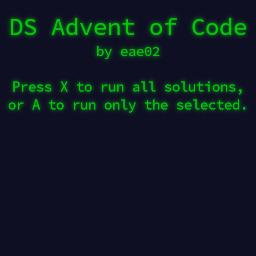
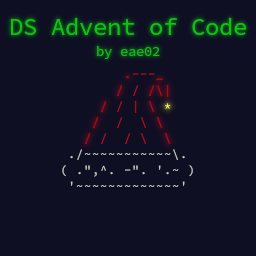
ui improvements

diff --git a/src/console.cpp b/src/console.cpp
@@ -1,0 +1,185 @@
+#include "console.hpp"
+#include "res/console.h"
+#include <nds.h>
+#include <stdio.h>
+
+console::SolutionState console::solStates[25];
+
+static int maxScroll;
+
+constexpr int PIXELS_Y_HEADER = 3 * 8;
+constexpr int PIXELS_Y_PER_DAY = 8 * 5;
+
+void console::init() {
+	videoSetMode(MODE_5_2D | DISPLAY_BG0_ACTIVE);
+	vramSetBankA(VRAM_A_MAIN_BG);
+	
+	BGCTRL[0] = BG_TILE_BASE(1) | BG_MAP_BASE(0) | BG_COLOR_256 | BG_32x32;
+	
+	dmaCopy(consoleTiles, (void*)CHAR_BASE_BLOCK(1), consoleTilesLen);
+	dmaFillHalfWords(0, (void*)SCREEN_BASE_BLOCK(0), consoleMapLen);
+	dmaCopy(consolePal,BG_PALETTE,sizeof(consolePal));
+	console::update();
+	
+	maxScroll = PIXELS_Y_HEADER;
+	for (int d = 0; d < 25; d++) {
+		if (solutions[d] != nullptr)
+			maxScroll += PIXELS_Y_PER_DAY;
+	}
+	maxScroll = std::max(maxScroll - SCREEN_HEIGHT, 0);
+}
+
+static u16 allLineData[32][32];
+
+void setLineData(int line, const char* data) {
+	bool bold = false;
+	for (int i = 0; i < 32; i++) {
+		if (*data == '\e') {
+			bold = !bold;
+			data++;
+		}
+		
+		int charIdx = 95;
+		if (*data >= '!' && *data <= '~')
+			charIdx = *data - '!';
+		
+		int charCol = charIdx % 32;
+		int charRow = charIdx / 32;
+		if (bold) charRow += 3;
+		
+		
+		if (line >= 0 && line < 32)
+			allLineData[line + 0][i] = consoleMap[(charRow * 64) + charCol];
+		if (line >= -1 && line < 31)
+			allLineData[line + 1][i] = consoleMap[(charRow * 64) + 32 + charCol];
+		
+		if (*data != '\0') {
+			data++;
+		}
+	}
+}
+
+static volatile int prevTouchY = 0;
+static volatile bool wasTouching = false;
+static volatile int scrollY = 0;
+
+void console::updateInput(int touchX, int touchY) {
+	int keys = keysHeld();
+	bool touching = (keys & KEY_TOUCH) != 0;
+	
+	if (touching && !wasTouching) {
+		for (int d = 0; d < 25; d++) {
+			if (solStates[d].state != RunState::NotRun)
+				continue;
+			int tapToRunLoX = ((d < 10) ? 8 : 9) * 8;
+			int tapToRunHiX = tapToRunLoX + 10 * 8;
+			int tapToRunLoY = PIXELS_Y_HEADER + d * PIXELS_Y_PER_DAY - scrollY;
+			int tapToRunHiY = tapToRunLoY + 8 * 2;
+			if (touchX >= tapToRunLoX && touchX <= tapToRunHiX && touchY >= tapToRunLoY && touchY <= tapToRunHiY) {
+				console::runSolution(d);
+				break;
+			}
+		}
+	}
+	
+	constexpr int SCROLL_PER_FRAME = 4;
+	if (keys & KEY_UP) {
+		scrollY -= SCROLL_PER_FRAME;
+	}
+	if (keys & KEY_DOWN) {
+		scrollY += SCROLL_PER_FRAME;
+	}
+	if (touching && wasTouching) {
+		scrollY += prevTouchY - touchY;
+	}
+	if (scrollY < 0) scrollY = 0;
+	if (scrollY > maxScroll) scrollY = maxScroll;
+	
+	wasTouching = touching;
+	prevTouchY = touchY;
+}
+
+static volatile int consoleFrameIdx = 0;
+static volatile int numDots = 0;
+static constexpr int FRAMES_PER_DOT = 30;
+
+void console::runSolution(int day) {
+	if (solutions[day] == nullptr)
+		return;
+	solStates[day].state = RunState::Running;
+	solStates[day].failedMessage = nullptr;
+	
+	std::string_view input = readInput(day + 1);
+	if (input.empty()) {
+		solStates[day].failedMessage = "no input";
+	} else {
+		cpuStartTiming(0);
+		bool ok = solutions[day](input, solStates[day].answers);
+		uint32_t elapsedTicks = cpuEndTiming();
+		solStates[day].elapsedTime = elapsedTicks * 1000 / BUS_CLOCK;
+		if (!ok) {
+			solStates[day].failedMessage = "failed";
+		}
+	}
+	
+	solStates[day].state = RunState::Done;
+}
+
+void console::update() {
+	consoleFrameIdx++;
+	if (consoleFrameIdx == FRAMES_PER_DOT) {
+		consoleFrameIdx = 0;
+		numDots = (numDots + 1) % 3;
+	}
+	
+	char dotDotDot[4] = "...";
+	dotDotDot[numDots + 1] = '\0';
+	
+	std::fill_n(allLineData[0], sizeof(allLineData) / 2, consoleMap[1000]);
+	char lineBuffer[64];
+	
+	constexpr int LINE_PIXELS_H = 8;
+	REG_BG0VOFS = (scrollY % LINE_PIXELS_H);
+	
+	int nextHalfLine = -(scrollY / LINE_PIXELS_H);
+	setLineData(nextHalfLine, "Press \eA\e to run all solutions");
+	nextHalfLine += 3;
+	
+	for (int d = 0; d < 25; d++) {
+		if (solutions[d] == nullptr)
+			continue;
+		
+		const char* part1Ans = "n/a";
+		const char* part2Ans = "n/a";
+		
+		switch (solStates[d].state) {
+		case RunState::NotRun:
+			snprintf(lineBuffer, sizeof(lineBuffer), "Day \e%d\e: [\etap to run\e]", d + 1);
+			break;
+		case RunState::Running:
+			snprintf(lineBuffer, sizeof(lineBuffer), "Day \e%d\e: running%s", d + 1, dotDotDot);
+			break;
+		case RunState::Waiting:
+			snprintf(lineBuffer, sizeof(lineBuffer), "Day \e%d\e: waiting%s", d + 1, dotDotDot);
+			break;
+		case RunState::Done:
+			if (solStates[d].failedMessage) {
+				snprintf(lineBuffer, sizeof(lineBuffer), "Day \e%d\e: %s", d + 1, solStates[d].failedMessage);
+			} else {
+				snprintf(lineBuffer, sizeof(lineBuffer), "Day \e%d\e: done in \e%lu\ems", d + 1, solStates[d].elapsedTime);
+				part1Ans = solStates[d].answers.ans1;
+				part2Ans = solStates[d].answers.ans2;
+			}
+			break;
+		}
+		setLineData(nextHalfLine, lineBuffer);
+		
+		snprintf(lineBuffer, sizeof(lineBuffer), " P1=\e%s\e, P2=\e%s\e", part1Ans, part2Ans);
+		setLineData(nextHalfLine + 2, lineBuffer);
+		
+		nextHalfLine += 5;
+	}
+	
+	DC_FlushRange(allLineData, sizeof(allLineData));
+	dmaCopy(allLineData, (void*)SCREEN_BASE_BLOCK(0), sizeof(allLineData));
+}

diff --git a/src/main.cpp b/src/main.cpp
@@ -1,50 +1,53 @@
 #include <nds.h>
 #include <cstdio>
-#include <fat.h>
 
 #include "res/bkg.h"
+#include "console.hpp"
 #include "solutions/sol.hpp"
 
 int main() {
-	//lcdMainOnBottom();
+	lcdMainOnBottom();
 	
 	touchPosition touch;
-	PrintConsole console;
 	
-	videoSetMode(MODE_5_2D);
-	videoSetModeSub(MODE_0_2D);
+	videoSetModeSub(MODE_5_2D);
+	vramSetBankC(VRAM_C_SUB_BG_0x06200000);
 	
-	vramSetBankA(VRAM_A_MAIN_BG);
-	vramSetBankC(VRAM_C_SUB_BG);
+	consoleDebugInit(DebugDevice_NOCASH);
 	
-	int bg3 = bgInit(3, BgType_Bmp8, BgSize_B8_256x256, 0, 0);
+	console::init();
+	irqSet(IRQ_VBLANK, [] { console::update(); });
 	
-	consoleInit(&console, 3, BgType_Text4bpp, BgSize_T_256x256, 31, 0, false, true);
+	int topScreenBg = bgInitSub(3, BgType_Bmp8, BgSize_B8_256x256, 0, 0);
 	
-	if (!fatInitDefault()) {
-		printf("failed to initialize libfat\n");
-	}
+	dmaCopy(bkgBitmap, bgGetGfxPtr(topScreenBg), 256 * 256);
+	dmaCopy(bkgPal, BG_PALETTE_SUB, 256 * 2);
 	
-	ReadInputCallback readInput = &readEmbeddedInput;
-	dmaCopy(bkgBitmap, bgGetGfxPtr(bg3), 256 * 256);
-	dmaCopy(bkgPal, BG_PALETTE, 256 * 2);
-	
-	consoleSelect(&console);
+	int runningOnDay = -1;
 	
 	int prevKeyState = 0;
 	while(1) {
-		touchRead(&touch);
-		
 		swiWaitForVBlank();
+		touchRead(&touch);
 		scanKeys();
 		
 		int keys = keysHeld();
 		int newKeys = keys & ~prevKeyState;
 		
-		if (newKeys & KEY_X) {
-			consoleClear();
-			for (int d = 1; d <= MAX_DAY_IMPLEMETED; d++) {
-				runSolution(d, readInput);
+		console::updateInput(touch.px, touch.py);
+		
+		if (runningOnDay == -1 && (newKeys & KEY_A) != 0) {
+			runningOnDay = 0;
+			for (int d = 0; d < 25; d++) {
+				console::solStates[d].state = console::RunState::Waiting;
+			}
+		}
+		
+		if (runningOnDay != -1) {
+			console::runSolution(runningOnDay);
+			runningOnDay++;
+			if (runningOnDay == 25) {
+				runningOnDay = -1;
 			}
 		}
 		

diff --git a/src/read_input.cpp b/src/read_input.cpp
@@ -1,10 +1,11 @@
 #include "read_input.hpp"
 #include <stdio.h>
+#include <fat.h>
 
 #ifdef EMBEDDED_INPUTS
 #include "inputs.h"
 
-std::string_view readEmbeddedInput(int day) {
+static std::string_view readEmbeddedInput(int day) {
 	#define DAY_INPUT(d) case d: return std::string_view((const char*)(inp_ ## d ## _txt), inp_ ## d ## _txt_len);
 	switch (day) {
 	DAY_INPUT(1)
@@ -20,14 +21,15 @@ std::string_view readEmbeddedInput(int day) {
 	return {};
 }
 #else
-std::string_view readEmbeddedInput(int day) { return { }; }
+static std::string_view readEmbeddedInput(int day) { return { }; }
 #endif
 
 #include <memory>
 
+static bool couldInitializeLibFat = false;
 static std::unique_ptr<char[]> inputBuffer;
 
-std::string_view readFileInput(int day) {
+static std::string_view readFileInput(int day) {
 	inputBuffer.reset();
 	
 	char filePath[64];
@@ -48,4 +50,17 @@ std::string_view readFileInput(int day) {
 	}
 	
 	return std::string_view(inputBuffer.get(), inputLen);
+}
+
+void initInputReading() {
+	couldInitializeLibFat = fatInitDefault();
+}
+
+std::string_view readInput(int day) {
+	if (couldInitializeLibFat) {
+		std::string_view fileInput = readFileInput(day);
+		if (!fileInput.empty()) 
+			return fileInput;
+	}
+	return readEmbeddedInput(day);
 }

diff --git a/src/solutions/sol.cpp b/src/solutions/sol.cpp
@@ -31,28 +31,3 @@ Solution solutions[25] = {
 	&solveDay8,
 	&solveDay9
 };
-
-void runSolution(int day, ReadInputCallback readInput) {
-	if (solutions[day - 1] == nullptr) {
-		printf("day %d is not implemented!\n", day);
-		return;
-	}
-	
-	std::string_view input = readInput(day);
-	if (input.empty()) {
-		printf("input for day %d is not available\n", day);
-		return;
-	}
-	
-	printf("solving day %d..", day);
-	AnswerBuffer ans;
-	cpuStartTiming(0);
-	bool ok = solutions[day - 1](input, ans);
-	uint32_t elapsedTicks = cpuEndTiming();
-	if (ok) {
-		uint32_t elapsedMS = elapsedTicks * 1000 / BUS_CLOCK;
-		printf(" done in %ldms\n part 1: %s\n part 2: %s\n", elapsedMS, ans.ans1, ans.ans2);
-	} else {
-		printf(" failed!\n");
-	}
-}

diff --git a/src/console.hpp b/src/console.hpp
@@ -1,0 +1,28 @@
+#pragma once
+
+#include "solutions/sol.hpp"
+
+namespace console {
+	enum class RunState {
+		NotRun,
+		Waiting,
+		Running,
+		Done
+	};
+	
+	struct SolutionState {
+		RunState state = RunState::NotRun;
+		const char* failedMessage = nullptr;
+		uint32_t elapsedTime;
+		AnswerBuffer answers;
+	};
+	
+	extern SolutionState solStates[25];
+	
+	void runSolution(int day);
+	
+	void init();
+	void update();
+	
+	void updateInput(int touchX, int touchY);
+}

diff --git a/src/solutions/sol.hpp b/src/solutions/sol.hpp
@@ -15,6 +15,4 @@ using Solution = bool(*)(std::string_view input, AnswerBuffer& ans);
 
 extern Solution solutions[25];
 
-constexpr int MAX_DAY_IMPLEMETED = 9;
-
-void runSolution(int day, ReadInputCallback readInput);
+bool runSolution(int day, ReadInputCallback readInput);

diff --git a/src/read_input.hpp b/src/read_input.hpp
@@ -2,7 +2,7 @@
 
 #include <string_view>
 
-std::string_view readFileInput(int day);
-std::string_view readEmbeddedInput(int day);
+void initInputReading();
+std::string_view readInput(int day);
 
 using ReadInputCallback = std::string_view(*)(int);
